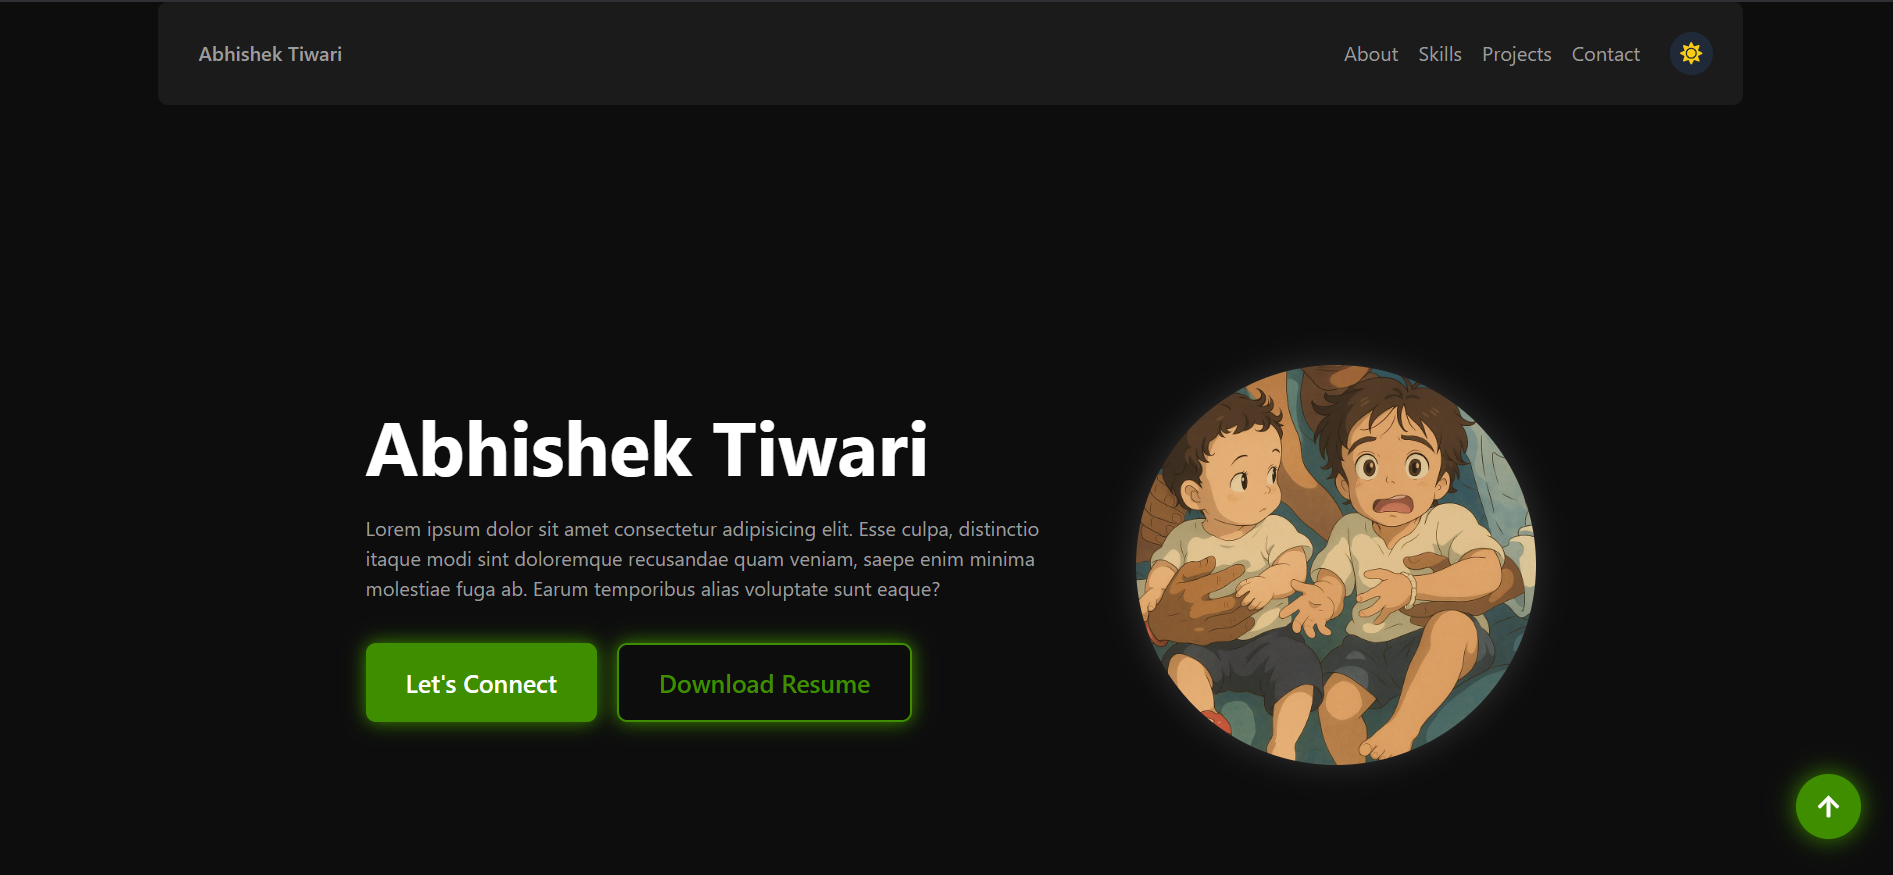
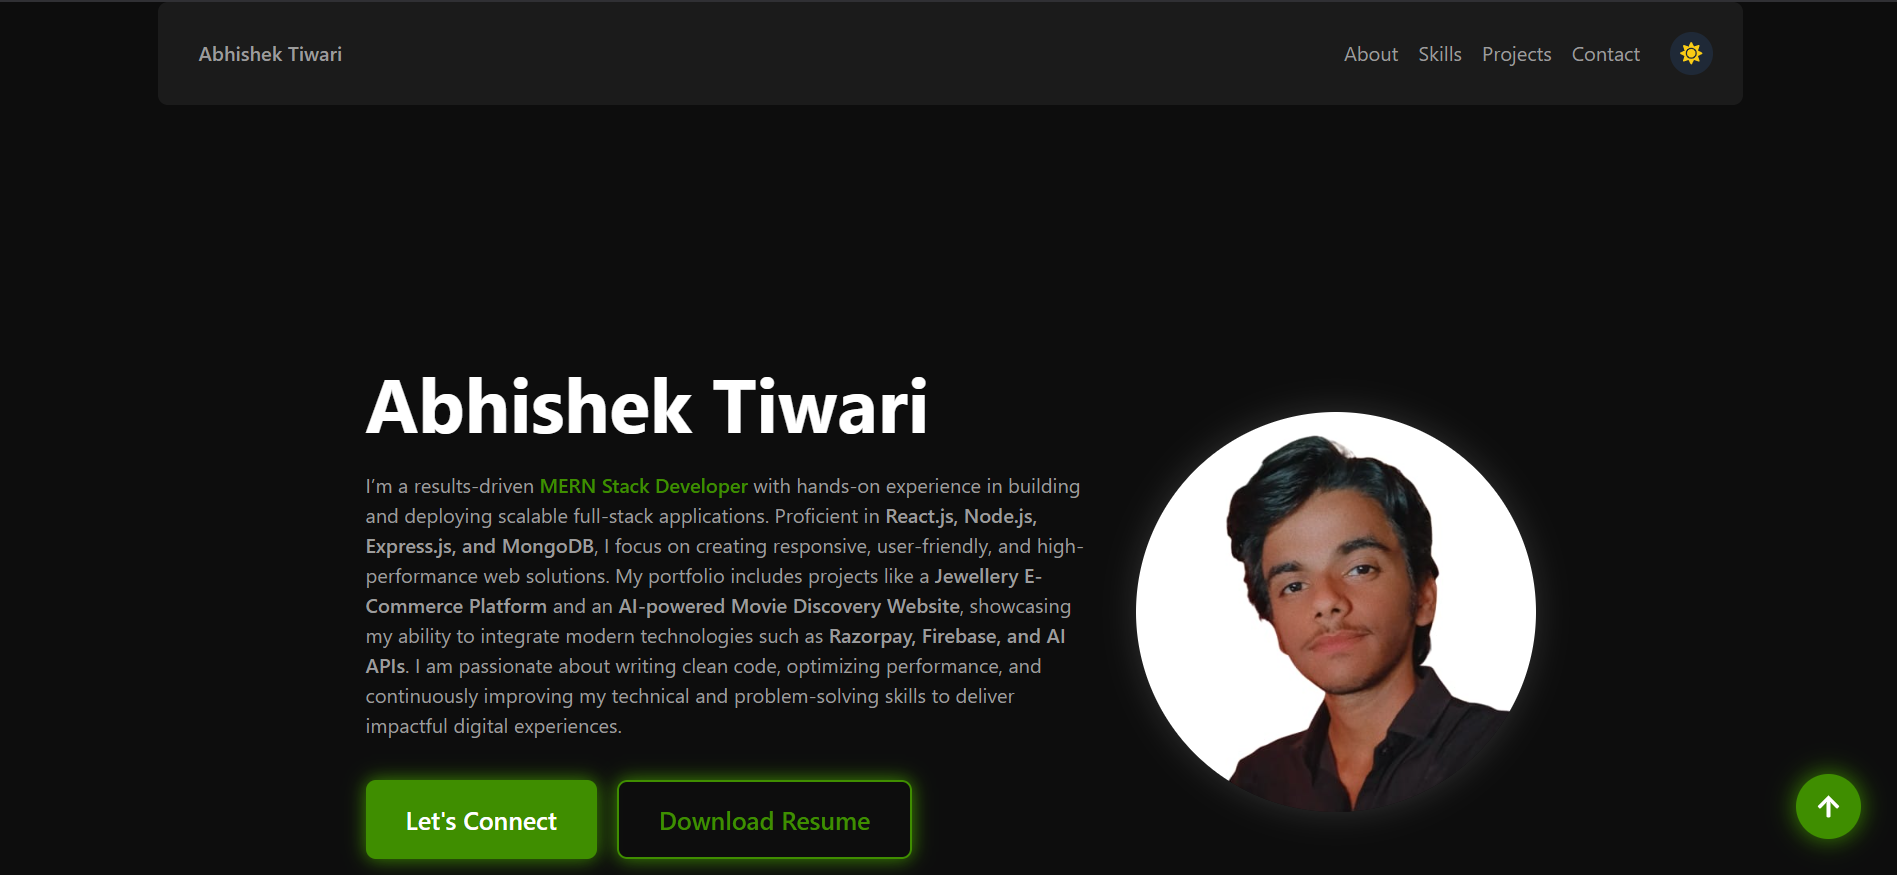
improved components

diff --git a/src/components/Contact.jsx b/src/components/Contact.jsx
@@ -1,45 +1,68 @@
-import React from "react";
+import React, { useState } from "react";
 import { FaEnvelope, FaLinkedin, FaGithub, FaPhone } from "react-icons/fa";
 import { motion } from "framer-motion";
+import emailjs from "emailjs-com";
 
 const contactMethods = [
   {
     icon: <FaEnvelope className="w-10 h-10 text-[#3f8e00]" />,
     title: "Email",
-    info: "abhishek@example.com",
-    link: "mailto:abhishek@example.com",
+    info: "abhishekti5659@gmail.com",
+    link: "mailto:abhishekti5659@gmail.com",
   },
   {
     icon: <FaLinkedin className="w-10 h-10 text-[#3f8e00]" />,
     title: "LinkedIn",
-    info: "linkedin.com/in/abhishek",
-    link: "https://linkedin.com/in/abhishek",
+    info: "linkedin.com/in/abhishek-tiwari-dev",
+    link: "https://www.linkedin.com/in/abhishek-tiwari-dev/",
   },
   {
     icon: <FaGithub className="w-10 h-10 text-[#3f8e00]" />,
     title: "GitHub",
     info: "github.com/abhishek",
-    link: "https://github.com/abhishek",
+    link: "https://github.com/abhishektiwari5659",
   },
   {
     icon: <FaPhone className="w-10 h-10 text-[#3f8e00]" />,
     title: "Phone",
-    info: "+91 9876543210",
-    link: "tel:+919876543210",
+    info: "+91 8591524033",
+    link: "tel:+918591524033",
   },
 ];
 
 const Contact = () => {
+  const [isOpen, setIsOpen] = useState(false);
+  const [formData, setFormData] = useState({ name: "", email: "", message: "" });
+  const [status, setStatus] = useState("");
+
+  const handleChange = (e) => setFormData({ ...formData, [e.target.name]: e.target.value });
+
+  const sendEmail = (e) => {
+    e.preventDefault();
+    setStatus("sending");
+
+    emailjs
+      .send(
+        "service_hrsgc2p",
+        "template_ji24qgs",
+        formData,
+        "t9YeCrHjQU59Q0_gB"
+      )
+      .then(
+        () => {
+          setStatus("success");
+          setFormData({ name: "", email: "", message: "" });
+          setTimeout(() => setIsOpen(false), 2000);
+        },
+        () => setStatus("error")
+      );
+  };
+
   return (
-    <div
-      id="contact"
-      className="relative flex flex-col items-center text-center mt-28 px-6 sm:px-12 overflow-hidden transition-colors duration-500"
-    >
-      {/* Decorative background effects */}
+    <div id="contact" className="relative flex flex-col items-center text-center mt-28 px-6 sm:px-12 overflow-hidden transition-colors duration-500">
       <div className="absolute top-0 left-0 w-64 h-64 bg-[#3f8e00]/20 blur-3xl rounded-full -z-10 animate-pulse"></div>
       <div className="absolute bottom-0 right-0 w-72 h-72 bg-[#3f8e00]/20 blur-3xl rounded-full -z-10 animate-pulse"></div>
 
-      {/* Heading */}
       <motion.h2
         className="text-gray-900 dark:text-white font-bold text-4xl sm:text-5xl mb-16 relative"
         initial={{ opacity: 0, y: -40 }}
@@ -69,34 +92,100 @@ const Contact = () => {
             whileTap={{ scale: 0.97 }}
             className="relative flex flex-col items-center justify-center p-8 rounded-2xl bg-gray-100 dark:bg-[#0f0f0f] shadow-md dark:shadow-lg hover:shadow-[0_0_25px_#3f8e00] transition-all duration-500 border border-gray-200 dark:border-[#222] hover:border-[#3f8e00]/60 group"
           >
-            {/* Icon Glow */}
             <div className="p-4 rounded-full bg-gradient-to-br from-[#3f8e00] to-gray-200 dark:to-[#1b1b1b] mb-4 group-hover:scale-110 transition-transform duration-300">
               {method.icon}
             </div>
-
-            <h3 className="text-xl font-semibold text-gray-900 dark:text-white mb-1">
-              {method.title}
-            </h3>
-            <p className="text-gray-600 dark:text-gray-300 text-sm sm:text-base">
-              {method.info}
-            </p>
-
-            {/* Subtle animated border */}
+            <h3 className="text-xl font-semibold text-gray-900 dark:text-white mb-1">{method.title}</h3>
+            <p className="text-gray-600 dark:text-gray-300 text-sm sm:text-base">{method.info}</p>
             <span className="absolute inset-0 rounded-2xl border-2 border-transparent group-hover:border-[#3f8e00] transition-all duration-500"></span>
           </motion.a>
         ))}
       </motion.div>
 
-      {/* Floating CTA Button */}
-      <motion.a
-        href="mailto:abhishek@example.com"
+      {/* Send Message Button */}
+      <motion.button
+        onClick={() => setIsOpen(true)}
         whileHover={{ scale: 1.1, boxShadow: "0 0 50px #3f8e00" }}
         whileTap={{ scale: 0.95 }}
         transition={{ type: "spring", stiffness: 250 }}
         className="mt-16 mb-14 inline-block bg-[#3f8e00] text-white font-bold text-2xl rounded-full px-10 py-4 shadow-[0_0_25px_#3f8e00] transition-all duration-300 hover:shadow-[0_0_60px_#3f8e00]"
       >
         Send a Message
-      </motion.a>
+      </motion.button>
+
+      {/* Modal Form */}
+      {isOpen && (
+        <div className="fixed inset-0 flex justify-center items-center bg-black/60 z-50 backdrop-blur-sm">
+          <motion.div
+            initial={{ scale: 0.8, opacity: 0 }}
+            animate={{ scale: 1, opacity: 1 }}
+            exit={{ scale: 0.8, opacity: 0 }}
+            className="bg-white dark:bg-[#111] rounded-2xl shadow-xl p-8 w-11/12 sm:w-[500px] relative"
+          >
+            <button
+              onClick={() => setIsOpen(false)}
+              className="absolute top-3 right-4 text-gray-500 dark:text-gray-400 hover:text-red-500 text-xl"
+            >
+              ✕
+            </button>
+
+            <h3 className="text-2xl font-bold mb-4 text-gray-900 dark:text-white">Send me a message</h3>
+            <form onSubmit={sendEmail} className="flex flex-col gap-4">
+  <input
+    type="text"
+    name="name"
+    placeholder="Your Name"
+    value={formData.name}
+    onChange={handleChange}
+    required
+    className="p-3 rounded-lg border border-gray-300 dark:border-gray-700 
+      bg-gray-100 dark:bg-[#1a1a1a] text-gray-900 dark:text-white 
+      focus:outline-none focus:ring-2 focus:ring-[#3f8e00] focus:border-transparent 
+      placeholder:text-gray-500 dark:placeholder:text-gray-400 transition-all duration-300"
+  />
+  <input
+    type="email"
+    name="email"
+    placeholder="Your Email"
+    value={formData.email}
+    onChange={handleChange}
+    required
+    className="p-3 rounded-lg border border-gray-300 dark:border-gray-700 
+      bg-gray-100 dark:bg-[#1a1a1a] text-gray-900 dark:text-white 
+      focus:outline-none focus:ring-2 focus:ring-[#3f8e00] focus:border-transparent 
+      placeholder:text-gray-500 dark:placeholder:text-gray-400 transition-all duration-300"
+  />
+  <textarea
+    name="message"
+    placeholder="Your Message"
+    value={formData.message}
+    onChange={handleChange}
+    required
+    rows="4"
+    className="p-3 rounded-lg border border-gray-300 dark:border-gray-700 
+      bg-gray-100 dark:bg-[#1a1a1a] text-gray-900 dark:text-white 
+      focus:outline-none focus:ring-2 focus:ring-[#3f8e00] focus:border-transparent 
+      placeholder:text-gray-500 dark:placeholder:text-gray-400 transition-all duration-300"
+  ></textarea>
+
+
+              <button
+                type="submit"
+                className="bg-[#3f8e00] text-white font-bold py-3 rounded-lg hover:shadow-[0_0_20px_#3f8e00] transition-all duration-300"
+              >
+                {status === "sending" ? "Sending..." : "Send Message"}
+              </button>
+
+              {status === "success" && (
+                <p className="text-green-500 text-sm mt-2">✅ Message sent successfully!</p>
+              )}
+              {status === "error" && (
+                <p className="text-red-500 text-sm mt-2">❌ Failed to send. Try again later.</p>
+              )}
+            </form>
+          </motion.div>
+        </div>
+      )}
     </div>
   );
 };

diff --git a/src/components/About.jsx b/src/components/About.jsx
@@ -12,28 +12,37 @@ const About = () => {
         </h1>
 
         <p className="mt-6 max-w-xl text-gray-600 dark:text-[#9c9c9c] transition-colors duration-500">
-          Lorem ipsum dolor sit amet consectetur adipisicing elit. Esse culpa, distinctio itaque modi sint doloremque recusandae quam veniam, saepe enim minima molestiae fuga ab. Earum temporibus alias voluptate sunt eaque?
-        </p>
+  I’m a results-driven <span className="font-semibold text-[#3f8e00]">MERN Stack Developer</span> with hands-on experience in building and deploying scalable full-stack applications. 
+  Proficient in <span className="font-semibold">React.js, Node.js, Express.js, and MongoDB</span>, I focus on creating responsive, user-friendly, and high-performance web solutions. 
+  My portfolio includes projects like a <span className="font-semibold">Jewellery E-Commerce Platform</span> and an <span className="font-semibold">AI-powered Movie Discovery Website</span>, showcasing my ability to integrate modern technologies such as <span className="font-semibold">Razorpay, Firebase, and AI APIs</span>. 
+  I am passionate about writing clean code, optimizing performance, and continuously improving my technical and problem-solving skills to deliver impactful digital experiences.
+</p>
+
 
         <div className="flex flex-col sm:flex-row gap-4 mt-8">
-          {/* Let's Connect Button */}
-          <button
-            className="
-              bg-[#3f8e00]
-              text-white
-              font-semibold
-              text-xl
-              rounded-lg
-              px-8 py-4
-              shadow-[0_0_15px_#3f8e00]
-              hover:shadow-[0_0_30px_#3f8e00]
-              transition-all
-              duration-300
-              hover:scale-105
-            "
-          >
-            Let's Connect
-          </button>
+          {/* Let's Connect Button (LinkedIn) */}
+<a
+  href="https://www.linkedin.com/in/abhishek-tiwari-dev/"
+  target="_blank"
+  rel="noopener noreferrer"
+  className="
+    bg-[#3f8e00]
+    text-white
+    font-semibold
+    text-xl
+    rounded-lg
+    px-8 py-4
+    shadow-[0_0_15px_#3f8e00]
+    hover:shadow-[0_0_30px_#3f8e00]
+    transition-all
+    duration-300
+    hover:scale-105
+    text-center
+  "
+>
+  Let's Connect
+</a>
+
 
           {/* Download Resume Button */}
           <a

diff --git a/src/components/Footer.jsx b/src/components/Footer.jsx
@@ -1,5 +1,5 @@
 import React from "react";
-import { FaGithub, FaLinkedin, FaTwitter, FaArrowUp } from "react-icons/fa";
+import { FaGithub, FaLinkedin, FaInstagram, FaArrowUp } from "react-icons/fa";
 import { motion } from "framer-motion";
 
 const Footer = () => {
@@ -32,9 +32,9 @@ const Footer = () => {
           viewport={{ once: true }}
         >
           {[
-            { href: "https://github.com/abhishek", icon: <FaGithub /> },
-            { href: "https://linkedin.com/in/abhishek", icon: <FaLinkedin /> },
-            { href: "https://twitter.com/abhishek", icon: <FaTwitter /> },
+            { href: "https://github.com/abhishektiwari5659", icon: <FaGithub /> },
+            { href: "https://linkedin.com/in/abhishek-tiwari-dev", icon: <FaLinkedin /> },
+            { href: "https://www.instagram.com/_._abhishek_07/", icon: <FaInstagram /> },
           ].map((social, i) => (
             <motion.a
               key={i}

diff --git a/src/components/Projects.jsx b/src/components/Projects.jsx
@@ -13,7 +13,7 @@ const projects = [
     title: 'Portfolio Website',
     description: 'Responsive and modern personal portfolio built with React and TailwindCSS.',
     image: '/images/portfolio.png',
-    link: 'https://github.com/yourusername/portfolio'
+    link: 'https://github.com/abhishektiwari5659/portfolio.git'
   },
   {
     title: 'GalaticVisions',
